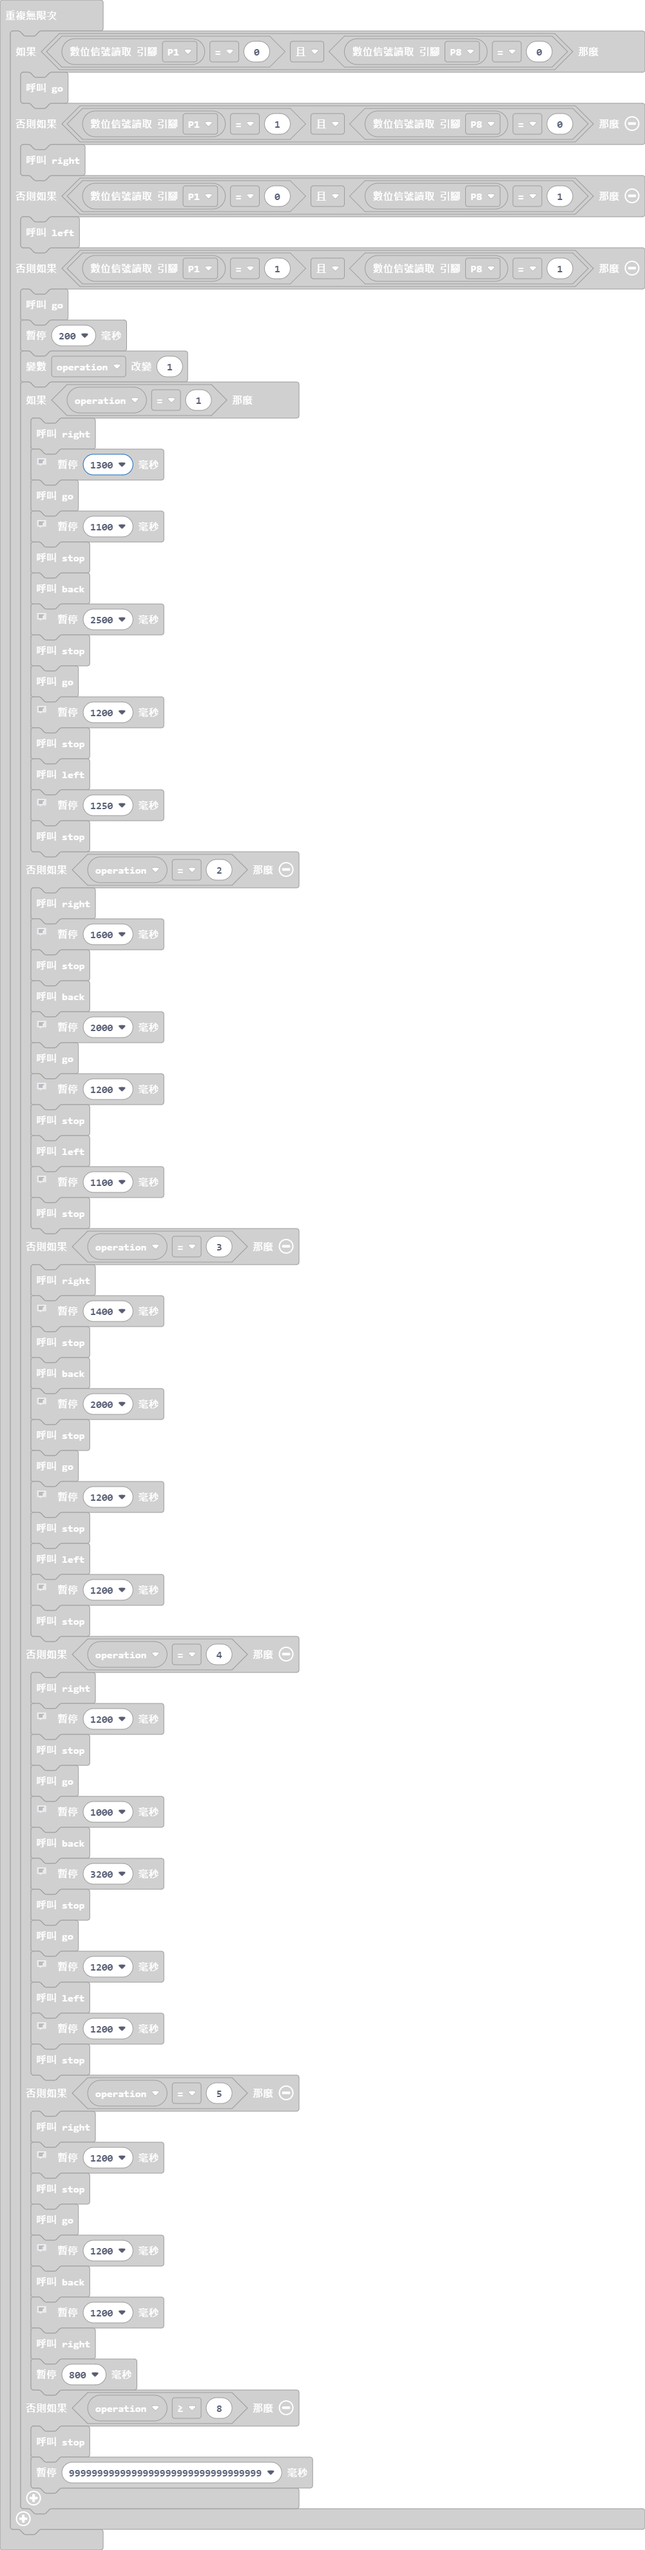
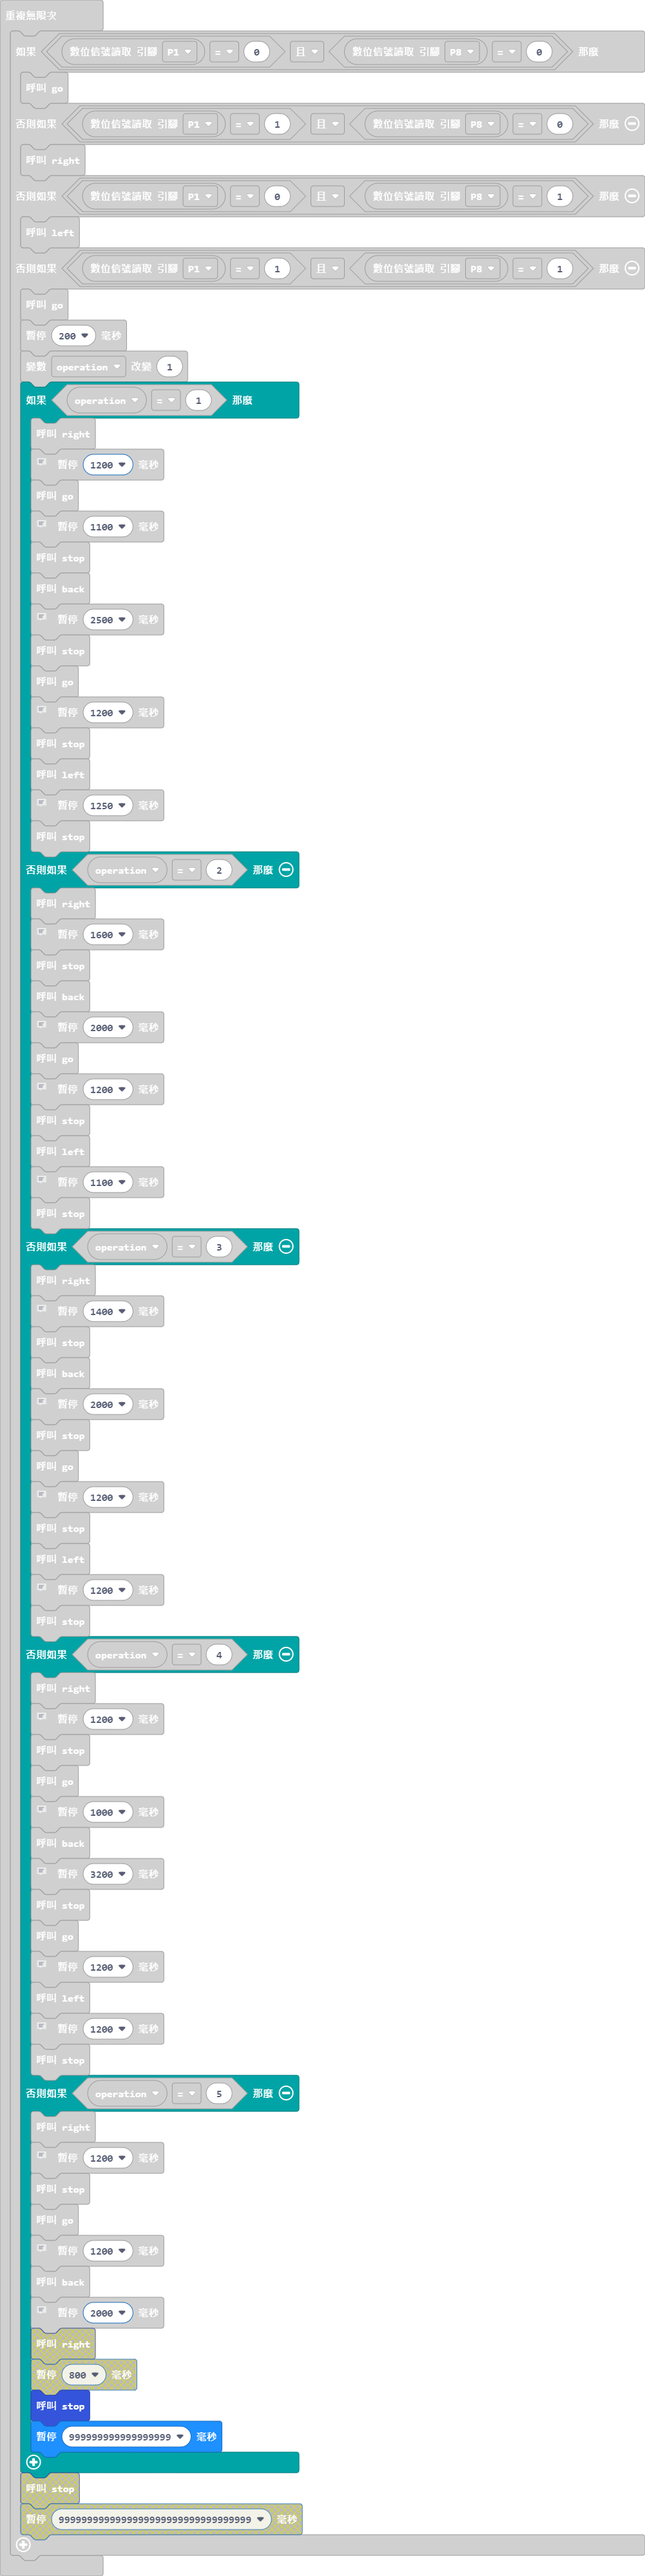
更新 main.blocks, main.ts

Changed region(s): [[0.031, 0.0, 0.991, 0.996]]

diff --git a/main.ts b/main.ts
@@ -97,7 +97,7 @@ basic.forever(function () {
         if (operation == 1) {
             right()
             // 第一個路口右轉
-            basic.pause(1300)
+            basic.pause(1200)
             go()
             // 推動進去A區
             basic.pause(1100)
@@ -176,12 +176,9 @@ basic.forever(function () {
             basic.pause(1200)
             back()
             // 從E區後退推進ParkingPlace
-            basic.pause(1200)
-            right()
-            basic.pause(800)
-        } else if (operation >= 8) {
+            basic.pause(2000)
             stop()
-            basic.pause(9999999999999999999999999999999999)
+            basic.pause(999999999999999999)
         }
     }
 })
